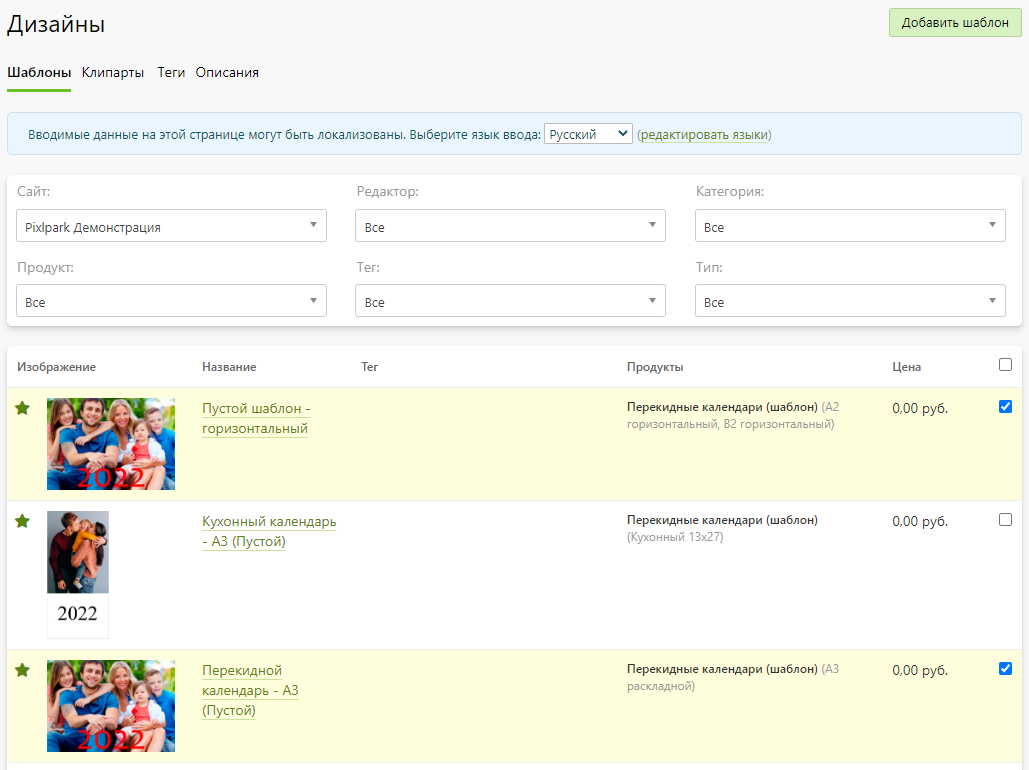
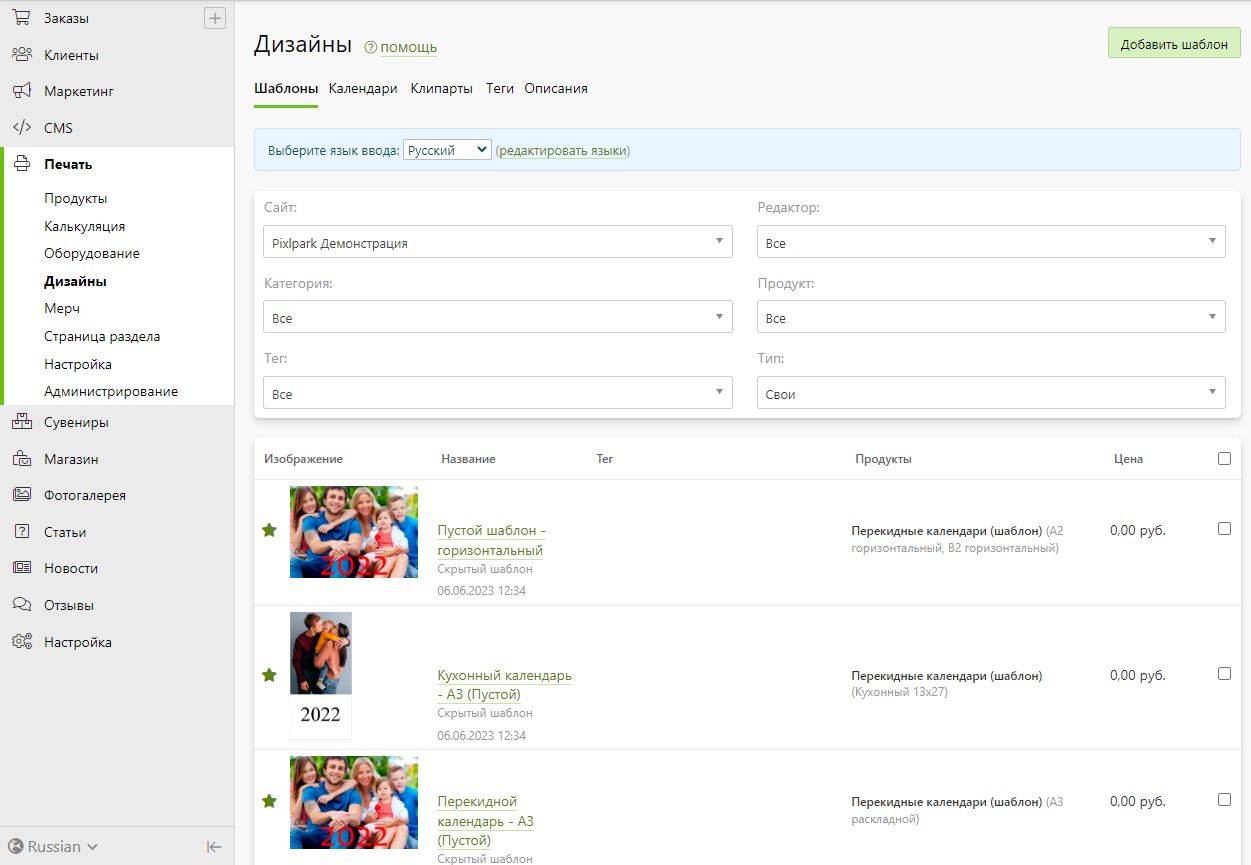
print-designs-templates

diff --git a/docs/print/designs.md b/docs/print/designs.md
@@ -2,8 +2,34 @@
 
 ## Шаблоны
 * __Содержание__
-    + [Карточка шаблона](/print/designs?id=Карточка-шаблона)
     + [Список шаблонов](/print/designs?id=Список-шаблонов)
+    + [Карточка шаблона](/print/designs?id=Карточка-шаблона)
+
+### Список шаблонов
+* В данном разделе представлен список шаблонов, которые можно отфильтровать:
+    + __По сайту__, на которых они доступны.
+    + __По редактору__, используемому в продуктах, для которых они применимы.
+    + __По категории__ продуктов, для которых они применимы.
+    + __По продуктам__ выбранной ранее категории, для которых они применимы.
+    + __По тегу__, заданному для них.
+    + __По типу__ шаблона (свои, авторские).
+
+* Создать шаблон можно с помощью кнопки "Добавить шаблон". Шаблон создается тремя способами:
+    1. Один (без предварительной загрузки макетов).
+    2. Несколько с загрузкой PSD-макетов, где каждый макет загружается в отдельный шаблон.
+    3. Импорт шаблонов.
+* ![](../_media/print/templates.png)
+
+* Также на странице можно:
+    + Отметить шаблон "избранным" (звездочка), чтобы на сайте в списке шаблона выводился первым.
+    + Дублировать выбранные шаблоны.
+    + Задать цену для выбранных шаблонов.
+    + Привязать выбранные шаблоны к продуктам.
+    + Привязать выбранные шаблоны к тегам.
+    + Скопировать выбранные шаблоны на другой сайт.
+    + Выбрать шаблоны, которые будут отображаться в подборке случайных шаблонов.
+    + Удалить шаблоны.
+![](../_media/print/templates-action.png)
 
 ### Карточка шаблона
 * __Содержание__
@@ -14,7 +40,7 @@
     + [Продукты](/print/designs?id=Продукты)
     + [Метаинформация](/print/designs?id=Метаинформация)
     + [Макеты](/print/designs?id=Макеты)
-* >  Подробнее о подготовке шаблонов можно узнать в [разделе](/design/businesscards).
+* >  Подробнее о подготовке шаблонов можно узнать в разделе ["Дизайнерам"](/design/psd-general).
 
 #### Основная информация
 
@@ -56,6 +82,7 @@
 #### Печать переменных данных
 * __Печать переменных данных (VDP)__ - возможность оформления печатной продукции таким образом, что каждый экземпляр тиража обладает индивидуальными данными, при этом общие текстовые и графические элементы остаются неизменными.
 * Данная технология применяется, например, для печати бейджей сотрудников компании.
+* ![](../_media/print/template-vdp.png)
 * Отметим, что реализация данной функции в Pixlpark имеет ряд ограничений:
     + Поддерживается только в старом редакторе дизайнов;
     + Применяется только для одностраничной продукции;
@@ -65,7 +92,6 @@
 * __Поля__ - список полей, заполняемых на каждого сотрудника:
     + __Имя слоя шаблона__ - название текстового слоя в макете шаблона, куда при создании дизайна будет подставляться значение поля ввода.
     + __Заголовок__ - название поле ввода, которое будет выводиться рядом с ним в модальном заполнения данных по сотрудникам.
-* ![](../_media/print/template-vdp.png)
 
 #### Персонажи шаблона
 * В данном разделе содержатся настройки только для шаблонов с типом "__Именная фотокнига__".
@@ -73,7 +99,7 @@
 * ![](../_media/print/template-characters.png)
 
 #### Теги
-* В данном разделе отображаются и выбираются теги для шаблона, которые в свою очередь определяются в разделе "__Теги дизайнов__".
+* В данном разделе отображаются и выбираются теги для шаблона, которые в свою очередь определяются в разделе ["Теги дизайнов"](/print/designs?id=Теги-2).
 * ![](../_media/print/template-tags.png)
 * ![](../_media/print/template-tags-select.png)
 
@@ -88,10 +114,8 @@
 * ![](../_media/print/template-seo.png)
 
 #### Макеты
-* В данном разделе загружаются макеты шаблона, которые могут быть следующих форматов:
+* В данном разделе загружаются макеты шаблона в PSD-формате.
     + __PSD__  - графический файл, состоящий из растровых и текстовых слоев, которые можно изменять в редакторе.
-    + __JPEG__ - растровое изображение, которое поддерживается только в старом редакторе дизайнов, и по умолчанию становится самым нижним слоем.
-    + __PNG__ - растровое изображение, которое поддерживается только в старом редакторе дизайнов, и по умолчанию становится самым верхним слоем.
 * Каждый макет можно ограничить определенными поверхностями печати через параметр "__Доступен для поверхностей__". Можно задать просто номер поверхности или написать формулу.
 * В формуле доступны следующие переменные: 
     + `[index]` - порядковый номер поверхности;
@@ -101,8 +125,11 @@
     + `[last]` - данный макет будет доступен только для последней поверхности печати;
     + `[index] >= 2` - данный макет будет доступен для всех поверхностей печати, кроме первой;
     + `[index] >= 3 && [index] <= ([last]-2)` - данный макет будет доступен для всех поверхностей печати, кроме первой, второй, предпоследней и последней.
+
+* ![](../_media/print/template-files.png)
+
 * Также на странице можно:
-    + Добавить (загрузить) макет;
+    + Загрузить макет;
     + Просмотреть и увеличить обложку макета, которая будет отображаться на сайте на странице шаблона и в редакторе;
     + Задать название макета, которое будет отображаться на сайте на странице шаблона и в редакторе;
     + Задать месяц в шаблоне (если тип шаблона - "календарь").
@@ -111,30 +138,11 @@
     + Изменить порядок следования на сайте, который используется по умолчанию, если не заданы ограничения доступности по поверхностям печати;
     + Скрыть выбранные макеты на сайте со страницы шаблона и из редактора.
     + Удалить выбранные макеты.
-* ![](../_media/print/template-files.png)
 
-### Список шаблонов
-* В данном разделе представлен список шаблонов, которые можно отфильтровать:
-    + __По сайту__, на которых они доступны.
-    + __По редактору__, используемому в продуктах, для которых они применимы.
-    + __По категории__ продуктов, для которых они применимы.
-    + __По продуктам__ выбранной ранее категории, для которых они применимы.
-    + __По тегу__, заданному для них.
-    + __По типу__ шаблона (свои, авторские).
-* ![](../_media/print/templates.png)
+## Календари
 
-* Также на странице можно:
-    + Добавить шаблон:
-        - Один (без предварительной загрузки макетов).
-        - Несколько  с загрузкой PSD-макетов, где каждый макет загружается в отдельный шаблон.
-    + Перейти в карточку шаблона.
-    + Отметить шаблон "избранным" (звездочка), чтобы на сайте в списке шаблона выводился первым.
-    + Скопировать выбранные шаблоны на другой сайт.
-    + Дублировать выбранные шаблоны.
-    + Привязать теги к выбранные шаблонам.
-    + Привязать продукты к выбранные шаблонам.
-    + Задать цену для выбранные шаблонов.
-    + Удалить выбранные шаблоны.
+* Данный раздел находится в стадии разработки. 
+* ![](../_media/print/calendar-grid.png)
 
 ## Клипарты
 * __Содержание__
